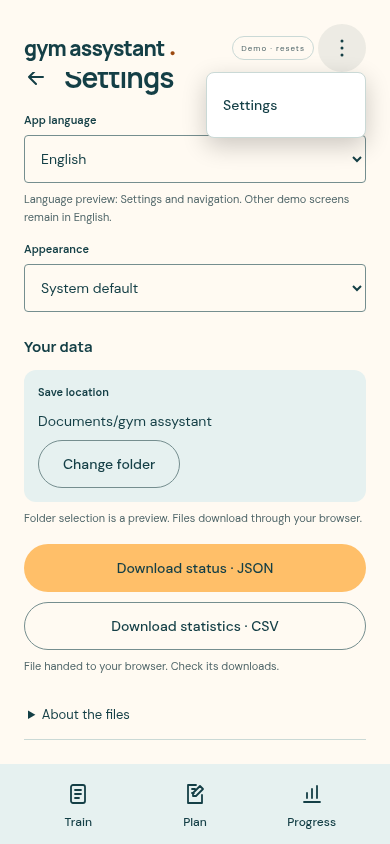
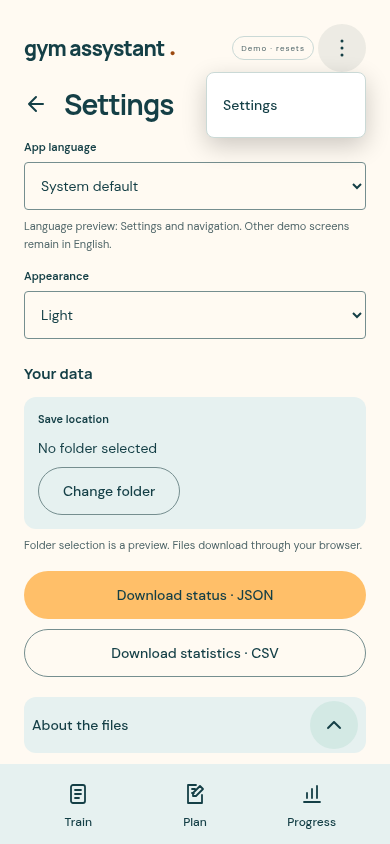
Enlarge expand and collapse controls throughout the mockup

Changed region(s): [[0.0615, 0.0616, 0.9538, 0.8934], [0.9231, 0.3697, 0.9538, 0.4005], [0.8923, 0.3389, 0.9231, 0.3697]]

diff --git a/prototypes/web/index.html b/prototypes/web/index.html
@@ -24,15 +24,15 @@
 
 <label class="select-label seat-label" for="seatInput" data-req="GYM-003">Seat & position</label><input id="seatInput" data-req="GYM-003" class="seat-input" type="text" placeholder="e.g. Seat 4, backrest 2" maxlength="250">
 <button id="watchVideo" class="md-button md-text video-link" data-req="GYM-002"><svg class="button-icon" viewBox="0 0 24 24" aria-hidden="true" focusable="false"><path d="m8 5 11 7-11 7Z"/></svg><span>Exercise video</span></button></section>
-<section id="plan" data-view hidden data-req="GYM-018"><form id="planForm"><div class="page-heading"><h2>Plan</h2><button class="md-button md-filled save-plan" type="submit">Save</button></div><p id="planFeedback" class="field-help" role="status"></p><label class="select-label" for="planName">Plan name</label><input id="planName" class="plan-input" maxlength="80" required><div class="section-heading"><h3>Sessions</h3><button id="addPlanSession" class="md-button md-tonal small-button" type="button"><svg class="button-icon" viewBox="0 0 24 24" aria-hidden="true" focusable="false"><path d="M12 5v14M5 12h14"/></svg>Add</button></div><div id="planSessions"></div><details id="weeklyPlanDetails" class="settings-details"><summary>Weekly schedule</summary><div id="weeklySchedule"></div></details><details id="datePlanDetails" class="settings-details"><summary>Change a date</summary><label class="select-label" for="planDate">Date</label><input id="planDate" class="plan-input" type="date" required><label class="select-label" for="planDateSession">Session</label><select id="planDateSession"></select><p class="field-help">Today or later · applies to this date only.</p></details></form></section>
-<section id="planSession" data-view hidden data-req="GYM-018"><form id="templateForm"><div class="page-heading secondary-heading" data-req="GYM-025"><button id="backToPlan" class="md-icon-button" type="button" aria-label="Back to training plan"><svg class="button-icon" viewBox="0 0 24 24" aria-hidden="true" focusable="false"><path d="M19 12H5m7-7-7 7 7 7"/></svg></button><h2 id="templateHeading"></h2><button class="md-button md-filled save-plan" type="submit">Save</button></div><p id="templateFeedback" class="field-help" role="status"></p><label class="select-label" for="templateName">Session name</label><input id="templateName" class="plan-input" maxlength="60" required><details id="templateNotes" class="settings-details"><summary>Session focus (optional)</summary><label class="select-label" for="templateFocus">Focus</label><input id="templateFocus" class="plan-input" maxlength="100"></details><div class="section-heading"><h3>Exercises</h3></div><div id="plannedExercises"></div><div class="add-plan-exercise"><select id="exerciseToAdd" aria-label="Exercise to add"></select><button id="addPlanExercise" class="md-button md-tonal small-button" type="button" aria-label="Add exercise"><svg class="button-icon" viewBox="0 0 24 24" aria-hidden="true" focusable="false"><path d="M12 5v14M5 12h14"/></svg>Add</button></div></form></section>
-<section id="progress" data-view hidden data-req="GYM-010 GYM-020 GYM-021"><h2>Progress</h2><p class="field-help sample-notice">Sample performance · 14 Sep–5 Oct 2026</p><label class="select-label" for="progressExercise">Exercise</label><select id="progressExercise"></select><div class="metric-tabs" role="group" aria-label="Progress metric"><button data-metric="reps" class="md-segment" aria-pressed="true"><span class="segment-check"><svg class="button-icon" viewBox="0 0 24 24" aria-hidden="true" focusable="false"><path d="m5 12 4 4L19 6"/></svg></span>Reps</button><button data-metric="weight" class="md-segment" aria-pressed="false"><span class="segment-check"><svg class="button-icon" viewBox="0 0 24 24" aria-hidden="true" focusable="false"><path d="m5 12 4 4L19 6"/></svg></span>Weight</button><button data-metric="volume" class="md-segment" aria-pressed="false"><span class="segment-check"><svg class="button-icon" viewBox="0 0 24 24" aria-hidden="true" focusable="false"><path d="m5 12 4 4L19 6"/></svg></span>Volume</button></div><div class="chart-card"><p class="eyebrow" id="metricTitle"></p><div class="metric-head"><strong id="metricValue"></strong><span id="metricUnit"></span></div><p class="field-help" id="metricSubtitle"></p><div id="chart" class="chart" role="img"></div></div><details id="performanceDetails" class="metric-details"><summary>How to compare</summary><p class="field-help">Sample history; current edits excluded. Bars start at zero.</p><div class="stat-row"><span>Working sets in this period</span><strong id="workingSets"></strong></div><p id="comparisonContext" class="field-help"></p><p id="metricExplanation" class="quiet-note"></p></details><div class="attendance-card" data-req="GYM-020"><div class="attendance-title"><h3>Attendance</h3><span class="field-help">Sample visits + your logs</span></div><p class="field-help" id="attendanceWindow"></p><div class="attendance-head"><strong id="attendanceTotal"></strong><span>sessions logged<br><b id="attendancePercent"></b></span></div><div class="attendance-summary"><span><b id="attendanceLate"></b> late</span><span><b id="attendanceUnlogged"></b> not logged</span></div><details id="attendanceDetails" class="metric-details"><summary>Attendance details</summary><dl class="attendance-details"><div><dt>On planned day</dt><dd id="attendanceOnTime"></dd></div><div><dt>Logged earlier</dt><dd id="attendanceEarly"></dd></div><div><dt>Average delay (late sessions)</dt><dd id="attendanceDelay"></dd></div></dl><p class="field-help" id="attendanceAsOf"></p><p class="field-help">One valid completed working set records a visit, even for a partial workout. Not logged means attendance is unknown. Today and future plans are excluded from this period; no plans means N/A. Reload resets your logs.</p></details></div></section>
+<section id="plan" data-view hidden data-req="GYM-018"><form id="planForm"><div class="page-heading"><h2>Plan</h2><button class="md-button md-filled save-plan" type="submit">Save</button></div><p id="planFeedback" class="field-help" role="status"></p><label class="select-label" for="planName">Plan name</label><input id="planName" class="plan-input" maxlength="80" required><div class="section-heading"><h3>Sessions</h3><button id="addPlanSession" class="md-button md-tonal small-button" type="button"><svg class="button-icon" viewBox="0 0 24 24" aria-hidden="true" focusable="false"><path d="M12 5v14M5 12h14"/></svg>Add</button></div><div id="planSessions"></div><details id="weeklyPlanDetails" class="settings-details"><summary data-req="GYM-025"><span>Weekly schedule</span><span class="disclosure-icon" aria-hidden="true"><svg class="button-icon" viewBox="0 0 24 24" focusable="false"><path d="m6 9 6 6 6-6"/></svg></span></summary><div id="weeklySchedule"></div></details><details id="datePlanDetails" class="settings-details"><summary data-req="GYM-025"><span>Change a date</span><span class="disclosure-icon" aria-hidden="true"><svg class="button-icon" viewBox="0 0 24 24" focusable="false"><path d="m6 9 6 6 6-6"/></svg></span></summary><label class="select-label" for="planDate">Date</label><input id="planDate" class="plan-input" type="date" required><label class="select-label" for="planDateSession">Session</label><select id="planDateSession"></select><p class="field-help">Today or later · applies to this date only.</p></details></form></section>
+<section id="planSession" data-view hidden data-req="GYM-018"><form id="templateForm"><div class="page-heading secondary-heading" data-req="GYM-025"><button id="backToPlan" class="md-icon-button" type="button" aria-label="Back to training plan"><svg class="button-icon" viewBox="0 0 24 24" aria-hidden="true" focusable="false"><path d="M19 12H5m7-7-7 7 7 7"/></svg></button><h2 id="templateHeading"></h2><button class="md-button md-filled save-plan" type="submit">Save</button></div><p id="templateFeedback" class="field-help" role="status"></p><label class="select-label" for="templateName">Session name</label><input id="templateName" class="plan-input" maxlength="60" required><details id="templateNotes" class="settings-details"><summary data-req="GYM-025"><span>Session focus (optional)</span><span class="disclosure-icon" aria-hidden="true"><svg class="button-icon" viewBox="0 0 24 24" focusable="false"><path d="m6 9 6 6 6-6"/></svg></span></summary><label class="select-label" for="templateFocus">Focus</label><input id="templateFocus" class="plan-input" maxlength="100"></details><div class="section-heading"><h3>Exercises</h3></div><div id="plannedExercises"></div><div class="add-plan-exercise"><select id="exerciseToAdd" aria-label="Exercise to add"></select><button id="addPlanExercise" class="md-button md-tonal small-button" type="button" aria-label="Add exercise"><svg class="button-icon" viewBox="0 0 24 24" aria-hidden="true" focusable="false"><path d="M12 5v14M5 12h14"/></svg>Add</button></div></form></section>
+<section id="progress" data-view hidden data-req="GYM-010 GYM-020 GYM-021"><h2>Progress</h2><p class="field-help sample-notice">Sample performance · 14 Sep–5 Oct 2026</p><label class="select-label" for="progressExercise">Exercise</label><select id="progressExercise"></select><div class="metric-tabs" role="group" aria-label="Progress metric"><button data-metric="reps" class="md-segment" aria-pressed="true"><span class="segment-check"><svg class="button-icon" viewBox="0 0 24 24" aria-hidden="true" focusable="false"><path d="m5 12 4 4L19 6"/></svg></span>Reps</button><button data-metric="weight" class="md-segment" aria-pressed="false"><span class="segment-check"><svg class="button-icon" viewBox="0 0 24 24" aria-hidden="true" focusable="false"><path d="m5 12 4 4L19 6"/></svg></span>Weight</button><button data-metric="volume" class="md-segment" aria-pressed="false"><span class="segment-check"><svg class="button-icon" viewBox="0 0 24 24" aria-hidden="true" focusable="false"><path d="m5 12 4 4L19 6"/></svg></span>Volume</button></div><div class="chart-card"><p class="eyebrow" id="metricTitle"></p><div class="metric-head"><strong id="metricValue"></strong><span id="metricUnit"></span></div><p class="field-help" id="metricSubtitle"></p><div id="chart" class="chart" role="img"></div></div><details id="performanceDetails" class="metric-details"><summary data-req="GYM-025"><span>How to compare</span><span class="disclosure-icon" aria-hidden="true"><svg class="button-icon" viewBox="0 0 24 24" focusable="false"><path d="m6 9 6 6 6-6"/></svg></span></summary><p class="field-help">Sample history; current edits excluded. Bars start at zero.</p><div class="stat-row"><span>Working sets in this period</span><strong id="workingSets"></strong></div><p id="comparisonContext" class="field-help"></p><p id="metricExplanation" class="quiet-note"></p></details><div class="attendance-card" data-req="GYM-020"><div class="attendance-title"><h3>Attendance</h3><span class="field-help">Sample visits + your logs</span></div><p class="field-help" id="attendanceWindow"></p><div class="attendance-head"><strong id="attendanceTotal"></strong><span>sessions logged<br><b id="attendancePercent"></b></span></div><div class="attendance-summary"><span><b id="attendanceLate"></b> late</span><span><b id="attendanceUnlogged"></b> not logged</span></div><details id="attendanceDetails" class="metric-details"><summary data-req="GYM-025"><span>Attendance details</span><span class="disclosure-icon" aria-hidden="true"><svg class="button-icon" viewBox="0 0 24 24" focusable="false"><path d="m6 9 6 6 6-6"/></svg></span></summary><dl class="attendance-details"><div><dt>On planned day</dt><dd id="attendanceOnTime"></dd></div><div><dt>Logged earlier</dt><dd id="attendanceEarly"></dd></div><div><dt>Average delay (late sessions)</dt><dd id="attendanceDelay"></dd></div></dl><p class="field-help" id="attendanceAsOf"></p><p class="field-help">One valid completed working set records a visit, even for a partial workout. Not logged means attendance is unknown. Today and future plans are excluded from this period; no plans means N/A. Reload resets your logs.</p></details></div></section>
 <section id="settings" data-view hidden data-req="GYM-022 GYM-023 GYM-024"><div class="secondary-heading" data-req="GYM-025"><button id="settingsBack" class="md-icon-button" aria-label="Back" data-req="GYM-022"><svg class="button-icon" viewBox="0 0 24 24" aria-hidden="true" focusable="false"><path d="M19 12H5m7-7-7 7 7 7"/></svg></button><h2 data-settings-text="settings">Settings</h2></div>
 <label class="select-label" for="appLanguage" data-settings-text="language">App language</label><select id="appLanguage"><option value="system" data-settings-text="system">System default</option><option value="en" lang="en">English</option><option value="it" lang="it">Italiano</option></select><p class="field-help" data-settings-text="languageNote"></p>
 <label class="select-label" for="appTheme" data-settings-text="theme">Appearance</label><select id="appTheme"><option value="system" data-settings-text="system">System default</option><option value="light" data-settings-text="light">Light</option><option value="dark" data-settings-text="dark">Dark</option></select>
 <div class="section-heading"><h3 data-settings-text="data">Your data</h3></div><div class="save-location"><p class="select-label" data-settings-text="folder">Save location</p><p id="saveFolder">No folder selected</p><button id="changeFolder" class="md-button md-outlined" data-settings-text="changeFolder">Change folder</button></div><p class="field-help" data-settings-text="folderNote"></p>
 <div class="export-actions"><button id="downloadStatus" class="md-button md-filled" data-settings-text="status">Download status · JSON</button><button id="downloadStatistics" class="md-button md-outlined" data-settings-text="statistics">Download statistics · CSV</button></div><p id="settingsFeedback" class="field-help" role="status"></p>
-<details id="exportDetails" class="settings-details"><summary data-settings-text="details">About the files</summary><p class="field-help" data-settings-text="filesNote"></p><button id="downloadGuide" class="md-button md-text" data-settings-text="guide">Download recovery guide · TXT</button></details></section>
+<details id="exportDetails" class="settings-details"><summary data-req="GYM-025"><span data-settings-text="details">About the files</span><span class="disclosure-icon" aria-hidden="true"><svg class="button-icon" viewBox="0 0 24 24" focusable="false"><path d="m6 9 6 6 6-6"/></svg></span></summary><p class="field-help" data-settings-text="filesNote"></p><button id="downloadGuide" class="md-button md-text" data-settings-text="guide">Download recovery guide · TXT</button></details></section>
 </div>
 <nav class="main-nav" aria-label="Main navigation" data-req="GYM-008 GYM-010 GYM-015 GYM-018">
 <button id="programNav" aria-current="page"><span class="nav-icon" aria-hidden="true"><svg viewBox="0 0 24 24"><rect x="5" y="3" width="14" height="18" rx="2"/><path d="M9 8h6M9 12h6M9 16h4"/></svg></span><span data-settings-text="train">Train</span></button>

diff --git a/prototypes/web/js/app.js b/prototypes/web/js/app.js
@@ -3,7 +3,7 @@
 const byId = id => document.getElementById(id);
 // GYM-015: uniform decorative SVGs; the surrounding button provides its action name.
 const buttonIcon = name => {
-  const paths = {"back": "M19 12H5m7-7-7 7 7 7", "left": "m15 18-6-6 6-6", "right": "m9 6 6 6-6 6", "up": "M12 19V5m-7 7 7-7 7 7", "down": "M12 5v14m-7-7 7 7 7-7", "check": "m5 12 4 4L19 6", "add": "M12 5v14M5 12h14", "trash": "M3 6h18M9 6V3h6v3M5 6l1 15h12l1-15M10 10v7m4-7v7", "play": "m8 5 11 7-11 7Z"};
+  const paths = {"back": "M19 12H5m7-7-7 7 7 7", "left": "m15 18-6-6 6-6", "right": "m9 6 6 6-6 6", "up": "M12 19V5m-7 7 7-7 7 7", "down": "M12 5v14m-7-7 7 7 7-7", "check": "m5 12 4 4L19 6", "add": "M12 5v14M5 12h14", "trash": "M3 6h18M9 6V3h6v3M5 6l1 15h12l1-15M10 10v7m4-7v7", "play": "m8 5 11 7-11 7Z", "expand": "m6 9 6 6 6-6"};
   return `<svg class="button-icon" viewBox="0 0 24 24" aria-hidden="true" focusable="false"><path d="${paths[name]}"/></svg>`;
 };
 let exerciseIndex = 0;
@@ -402,7 +402,7 @@ function renderTemplate() {
   byId('templateHeading').textContent = 'Edit session';
   byId('templateName').value = template.name;
   byId('templateFocus').value = template.focus;
-  byId('plannedExercises').innerHTML = template.exercises.length ? template.exercises.map((item, index) => `<details class="prescription-card" ${index === 0 ? 'open' : ''}><summary><strong class="prescription-summary">${prescriptionSummary(item, index)}</strong></summary><label class="select-label" for="planned-machine-${item.entryId}">Exercise</label><select id="planned-machine-${item.entryId}" data-entry="${item.entryId}" data-plan-field="exerciseId">${GymData.catalog.map(machine => `<option value="${machine.id}" ${machine.id === item.exerciseId ? 'selected' : ''}>${machine.name}</option>`).join('')}</select><div class="prescription-fields"><label>Working sets<input type="number" min="1" max="10" step="1" required value="${item.setCount}" data-entry="${item.entryId}" data-plan-field="setCount" aria-label="Exercise ${index + 1} planned working sets"></label><label>Min reps<input type="number" min="1" max="50" step="1" required value="${item.minReps}" data-entry="${item.entryId}" data-plan-field="minReps" aria-label="Exercise ${index + 1} minimum target reps"></label><label>Max reps<input type="number" min="1" max="50" step="1" required value="${item.maxReps}" data-entry="${item.entryId}" data-plan-field="maxReps" aria-label="Exercise ${index + 1} maximum target reps"></label></div><div class="prescription-actions"><button class="md-icon-button md-icon-outlined" type="button" data-move-entry="${item.entryId}" data-direction="-1" aria-label="Move exercise ${index + 1} up" ${index === 0 ? 'disabled' : ''}>${buttonIcon('up')}</button><button class="md-icon-button md-icon-outlined" type="button" data-move-entry="${item.entryId}" data-direction="1" aria-label="Move exercise ${index + 1} down" ${index === template.exercises.length - 1 ? 'disabled' : ''}>${buttonIcon('down')}</button><button class="md-icon-button" type="button" data-remove-entry="${item.entryId}" aria-label="Remove exercise ${index + 1}">${buttonIcon('trash')}</button></div></details>`).join('') : '<p class="field-help">Add an exercise to this session.</p>';
+  byId('plannedExercises').innerHTML = template.exercises.length ? template.exercises.map((item, index) => `<details class="prescription-card" ${index === 0 ? 'open' : ''}><summary><strong class="prescription-summary">${prescriptionSummary(item, index)}</strong><span class="disclosure-icon" aria-hidden="true">${buttonIcon('expand')}</span></summary><label class="select-label" for="planned-machine-${item.entryId}">Exercise</label><select id="planned-machine-${item.entryId}" data-entry="${item.entryId}" data-plan-field="exerciseId">${GymData.catalog.map(machine => `<option value="${machine.id}" ${machine.id === item.exerciseId ? 'selected' : ''}>${machine.name}</option>`).join('')}</select><div class="prescription-fields"><label>Working sets<input type="number" min="1" max="10" step="1" required value="${item.setCount}" data-entry="${item.entryId}" data-plan-field="setCount" aria-label="Exercise ${index + 1} planned working sets"></label><label>Min reps<input type="number" min="1" max="50" step="1" required value="${item.minReps}" data-entry="${item.entryId}" data-plan-field="minReps" aria-label="Exercise ${index + 1} minimum target reps"></label><label>Max reps<input type="number" min="1" max="50" step="1" required value="${item.maxReps}" data-entry="${item.entryId}" data-plan-field="maxReps" aria-label="Exercise ${index + 1} maximum target reps"></label></div><div class="prescription-actions"><button class="md-icon-button md-icon-outlined" type="button" data-move-entry="${item.entryId}" data-direction="-1" aria-label="Move exercise ${index + 1} up" ${index === 0 ? 'disabled' : ''}>${buttonIcon('up')}</button><button class="md-icon-button md-icon-outlined" type="button" data-move-entry="${item.entryId}" data-direction="1" aria-label="Move exercise ${index + 1} down" ${index === template.exercises.length - 1 ? 'disabled' : ''}>${buttonIcon('down')}</button><button class="md-icon-button" type="button" data-remove-entry="${item.entryId}" aria-label="Remove exercise ${index + 1}">${buttonIcon('trash')}</button></div></details>`).join('') : '<p class="field-help">Add an exercise to this session.</p>';
   byId('exerciseToAdd').innerHTML = GymData.catalog.map(item => `<option value="${item.id}">${item.name}</option>`).join('');
   byId('templateFeedback').textContent = planMessage;
 }

diff --git a/prototypes/web/css/style.css b/prototypes/web/css/style.css
@@ -386,3 +386,20 @@ input[type="number"] { appearance: textfield; -moz-appearance: textfield; }
 input[type="number"]::-webkit-inner-spin-button, input[type="number"]::-webkit-outer-spin-button { -webkit-appearance: none; margin: 0; }
 .video-placeholder { border-radius: var(--shape-medium); }
 .video-placeholder svg { display: block; margin: auto; width: 48px; height: 48px; fill: none; stroke: currentColor; stroke-width: 2; stroke-linecap: round; stroke-linejoin: round; }
+
+/* GYM-021, GYM-025: obvious expand/collapse affordances; the entire row toggles. */
+summary, .prescription-card summary {
+  display: flex; align-items: center; justify-content: space-between; gap: 12px;
+  min-height: 56px; padding: 4px 8px; list-style: none;
+  border-radius: var(--shape-medium); font-size: 14px; font-weight: 500;
+  background: var(--surface-container);
+}
+summary::-webkit-details-marker { display: none; }
+summary::marker { content: ''; }
+summary > :first-child { min-width: 0; overflow-wrap: anywhere; }
+.disclosure-icon { display: grid; place-items: center; width: 48px; height: 48px; flex-shrink: 0; border-radius: var(--shape-full); background: var(--tonal-container); color: var(--on-surface); }
+details[open] > summary .disclosure-icon svg { transform: rotate(180deg); }
+.prescription-summary { font-weight: 500; }
+.settings-details, .metric-details { padding-block: 4px; }
+.prescription-card summary { padding-inline: 0; }
+@media (prefers-reduced-motion: no-preference) { .disclosure-icon svg { transition: transform 160ms ease; } }

diff --git a/docs/product/spec.md b/docs/product/spec.md
@@ -1,6 +1,6 @@
 # gym assystant — draft specification
 
-Status: revision 12, for exploration. Only a disposable browser mockup is authorized. Android implementation starts after the user decides the scope. Mockup coverage does not mean a production requirement is implemented.
+Status: revision 13, for exploration. Only a disposable browser mockup is authorized. Android implementation starts after the user decides the scope. Mockup coverage does not mean a production requirement is implemented.
 
 ## Purpose
 
@@ -34,7 +34,7 @@ Follow a training program made of multiple training sessions. During each sessio
 | GYM-022 | Settings for app language and theme. | A persistent top-right vertical three-dot icon opens an anchored overflow menu containing Settings. Selecting it opens the separate Settings screen; bottom navigation contains only Train, Plan, and Progress and has no selected destination while Settings is open. A Back icon returns to the prior screen and its scroll position without changing drafts, logs, exercise selection, or timers. The overflow icon and menu item have accessible names and 48px targets. Click outside or Escape dismisses the menu; Escape restores focus to the trigger. Support keyboard opening, arrow-key item focus, Enter activation, and Tab dismissal without a focus trap. The popup stays within the phone at narrow widths and in both themes. Language offers System default, English, and Italiano, with English fallback for unsupported system languages; native delivery localizes all app-owned text/date/number presentation and keeps user-authored names/notes unchanged. The mockup previews translated Settings and navigation only and explicitly discloses remaining English demo screens. Theme offers System default, Light, and Dark; applies immediately across all views without changing entries or interrupting timers; System responds to system color-mode changes. Keep the amber/teal brand, readable contrast, 48px controls, and concise grouped settings. Choices reset on reload in the mockup. |
 | GYM-023 | Choose a durable app-status save folder. | Settings shows the current save location and a Change folder action. Native Android uses the system directory picker and retained document-tree permission rather than an arbitrary typed filesystem path; users may select any writable folder exposed by the picker, subject to Android restrictions. Cancellation retains the previous choice; inaccessible/revoked storage reports unsaved status and offers retry/change location without discarding in-app data. Native delivery saves versioned UTF-8 JSON snapshots after committed plan, settings, log, setup, order, and lifecycle changes and on timer pause/background, not every clock tick. Keep a previous valid snapshot and only report saved after a complete write; details of atomic replacement depend on the document provider. User-visible snapshots are independent of app-private storage and readable without the app. The browser previews example folder choices, labels them as previews, writes no folder, and offers an actual Download status JSON snapshot using browser downloads. Saving/reloading/restoring and Android folder access remain unimplemented in this mockup. |
 | GYM-024 | Download statistics and recover data without the app. | Settings provides Download statistics CSV plus full status JSON and a plain-text recovery guide. CSV contains all three sample performance series, sample/live attendance records and the same 28-day summary shown in Progress, independent of the currently selected exercise/metric; current editable sets remain excluded from sample performance. Use documented UTF-8, RFC 8259 JSON and RFC 4180-style CSV with headers, comma delimiter, escaped quotes, CRLF records, stable English field names, decimal points, explicit units, ISO civil dates and UTC timestamps. Missing observations remain null/blank with a reason, never strength zeros. Separate sample records from this visit's demo edits. Full JSON contains saved plan, distinct unsaved draft, catalog/context, dated execution snapshots and order, working/warm-up sets and seat notes, lifecycle/attendance, past obligation snapshots, sample histories, settings, and paused elapsed timer snapshots with captured-running metadata; export must not mutate live timers. Include format/version and a data dictionary; the guide explains reading JSON with a text editor/Python and CSV with a spreadsheet without app dependencies. Document future format migrations; no proprietary binary-only backup, encryption/password requirement, cloud account, import UI, notifications, or new metrics are introduced. Native persistence and restoration remain future delivery. |
-| GYM-025 | Keep design elements consistent across every screen and state. | Walk through Train, Ready/In progress/Paused/Finished sessions, execution/recovery and warm-up logging, finished review, video, Plan/schedule/template editing, Progress and its details, Settings/files/folder, and overflow in both themes and at narrow widths. Use the same 48px circular Back icon and compact heading alignment for secondary pages, with clear accessible destination labels. Keep filled/tonal/outlined/text action hierarchy and move/delete distinctions. Plan Save is disabled until a draft change and returns to disabled after saving. Finished set completion is a static check/dash with complete/not-logged accessible text, not an inactive button that looks tappable; read-only values stay readable and lose editable-field outlines. Numeric inputs retain number validation, touch size and keyboard editing but hide browser-specific spinner decorations. The unavailable video uses a neutral decorative video frame rather than a play affordance. Empty optional session focus does not produce a leading separator. Retain exercise emphasis, warm-up/working distinctions, all existing data/lifecycle behavior, and document before/after findings. No new product capability or Android implementation is introduced. |
+| GYM-025 | Keep design elements consistent across every screen and state. | Walk through Train, Ready/In progress/Paused/Finished sessions, execution/recovery and warm-up logging, finished review, video, Plan/schedule/template editing, Progress and its details, Settings/files/folder, and overflow in both themes and at narrow widths. Use the same 48px circular Back icon and compact heading alignment for secondary pages, with clear accessible destination labels. Keep filled/tonal/outlined/text action hierarchy and move/delete distinctions. Plan Save is disabled until a draft change and returns to disabled after saving. Finished set completion is a static check/dash with complete/not-logged accessible text, not an inactive button that looks tappable; read-only values stay readable and lose editable-field outlines. Numeric inputs retain number validation, touch size and keyboard editing but hide browser-specific spinner decorations. The unavailable video uses a neutral decorative video frame rather than a play affordance. Empty optional session focus does not produce a leading separator. Every expand/collapse control uses a full-width row at least 56px high, a readable 14px label, and a visible 24px chevron in a 48px circular indicator on the right; the whole row toggles the section. The chevron turns upward when expanded. Use the same treatment for plan schedules, optional focus, exercise prescriptions, metric/attendance details, and file details. Retain native keyboard and expanded-state semantics, label wrapping at narrow widths, and both themes; the visual indicator must survive language changes. Retain exercise emphasis, warm-up/working distinctions, all existing data/lifecycle behavior, and document before/after findings. No new product capability or Android implementation is introduced. |
 
 ## Information model and navigation
 

diff --git a/docs/product/traceability.md b/docs/product/traceability.md
@@ -1,6 +1,6 @@
 # Bidirectional traceability
 
-Revision 12. All Android delivery is **not started**. “Covered” below means the disposable mockup meets the acceptance criteria in [spec.md](spec.md), not that the Android product is implemented. Search a requirement ID in source comments or `data-req` attributes to trace code back to scope.
+Revision 13. All Android delivery is **not started**. “Covered” below means the disposable mockup meets the acceptance criteria in [spec.md](spec.md), not that the Android product is implemented. Search a requirement ID in source comments or `data-req` attributes to trace code back to scope.
 
 | Requirement | Source anchors / artifact | Verification | Mockup state |
 | --- | --- | --- | --- |
@@ -28,7 +28,7 @@ Revision 12. All Android delivery is **not started**. “Covered” below means 
 | GYM-022 | `settings.js`: overflow menu, dismissal/keyboard focus, exact-screen return, translation preview and system/theme handlers; `app.js`: `showView` and Settings mount; `index.html`: top-right overflow, three bottom destinations, Settings Back; CSS: anchored popup, dark role colors and targets | Browser: overflow opening/keyboard/outside/Escape/Tab dismissal, focus and prior-screen/scroll restoration, three bottom destinations, English/Italian/system fallback, light/dark/system changes, retained drafts/logs/timers, 320/390/430px targets/menu bounds, reload reset | Settings/theme covered; full app localization deferred to Android |
 | GYM-023 | `settings.js`: folder preview dialog/cancel, JSON download; `exports.js`: snapshot/JSON; `index.html`: save location; [data-formats.md](../architecture/data-formats.md) | Browser: cancel/Escape retains location and restores focus, chosen preview location appears in file, actual browser download; logic: complete non-mutating snapshot | Folder UI preview and JSON download covered; native picker/permissions, automatic saves and restore not started |
 | GYM-024 | `exports.js`: snapshot, JSON, statistics CSV, guide/dictionary; `plan.js`: original `prescribedExercises`; `metrics.js`: shared comparable-record filter; `app.js`: live export input/draft separation; `index.html`: downloads/disclosure; [data-formats.md](../architecture/data-formats.md) | Logic: JSON round-trip, Unicode, working/warm-up and original prescriptions, paused timer capture, exact metrics/attendance, escaping/missing values; browser: downloads parse, live state unchanged, drafts separate; standard Python JSON/CSV recovery check | Text downloads and contract covered; production archive/restore and future migrations not started |
-| GYM-025 | [interface-review.md](../reviews/interface-review.md): design consistency walkthrough; `index.html`: shared secondary headings/Back and neutral video frame; `app.js`: `syncSaveActions`, static finished `setRow`, clean focus/date joining; CSS: number-field decoration/read-only styles | Before/after browser walkthrough of 50 theme/screen states each; browser: disabled/dirty/saved Save, Back names, numeric keyboard entry, clean empty focus, static complete/not-logged review, existing flow regression, narrow targets | Design corrections covered in mockup; Android deferred |
+| GYM-025 | [interface-review.md](../reviews/interface-review.md): design consistency walkthrough; `index.html`: shared secondary headings/Back and neutral video frame; `app.js`: `syncSaveActions`, static finished `setRow`, clean focus/date joining; CSS: number-field decoration/read-only styles and shared 56px disclosure rows/24px chevrons; `index.html`/`app.js`: disclosure indicators | Before/after browser walkthrough of 50 theme/screen states each; browser: disabled/dirty/saved Save, Back names, numeric keyboard entry, clean empty focus, static complete/not-logged review, existing flow regression, narrow targets | Design corrections covered in mockup; Android deferred |
 
 JavaScript filenames above are under `prototypes/web/js/`; `index.html` is under `prototypes/web/`, and `style.css` is under `prototypes/web/css/`. Meaningful automated checks live in [logic.test.cjs](../../prototypes/web/tests/logic.test.cjs) and [browser.cjs](../../prototypes/web/tests/browser.cjs). `prototypes/web/package.json` and its lockfile support those checks only; the mockup itself has no build or runtime package dependency.
 
@@ -91,3 +91,5 @@ Revision 10, 2026-10-13: wrote GYM-022–024 and the version-1 text-file contrac
 Revision 11, 2026-10-13: moved Settings to the persistent top-right three-dot overflow menu, restored Train/Plan/Progress-only bottom navigation, and added Back to the originating screen/scroll. Chromium verified menu bounds, focus, keyboard opening, outside/Escape/Tab dismissal, return without changed drafts/logs/timers, themes, downloads, and 320/390/430px targets.
 
 Revision 12, 2026-10-13: walked through 50 light/dark screen and state captures before and after the GYM-025 corrections. Standardized Back/secondary headings, disabled Save until a draft change, replaced finished completion buttons with static statuses and read-only value styling, hid browser number spinners while preserving keyboard entry, replaced the unavailable-video play glyph, and removed leading separators for empty focus. All 29 logic checks and the Chromium regression suite passed, including new behavior/state assertions. Reviewed before/after screenshots and narrow layouts; refreshed all previews and retained representative design comparisons in [interface-review.md](../reviews/interface-review.md). No sub-48px standard controls were found; calendar width remains its documented exception. Android implementation remains not started.
+
+Revision 13, 2026-10-13: enlarged all disclosure affordances under GYM-025 after updating its specification: 56px minimum full-width rows, 14px labels, 24px right-side chevrons in 48px circular indicators, upward expanded state, and native keyboard toggling. Moved translated Settings labels into their own spans so translation retains the indicator. Chromium regression checks passed; the 50-capture light/dark walkthrough verified dimensions and chevron consistency on all screens and at narrow widths. Added representative disclosure previews to [interface-review.md](../reviews/interface-review.md). Android implementation remains not started.

diff --git a/docs/reviews/interface-review.md b/docs/reviews/interface-review.md
@@ -68,3 +68,9 @@ Different action styles remain intentional: filled primary actions, tonal Add, o
 Representative before/after evidence: [mixed Back row before](previews/design-before-back.png) → [compact Back heading after](previews/design-session.png), and [finished controls before](previews/design-before-finished-log.png) → [static finished review after](previews/design-finished-log.png). The remaining preview images were refreshed to show three bottom destinations and the overflow menu.
 
 Verification: all 29 logic checks and the Chromium regression suite passed, including overflow keyboard/outside/Escape/Tab dismissal, exact screen/scroll return, retained drafts/logs/timers, disabled/dirty/saved Save states, clean optional-focus subtitle, ArrowUp/ArrowDown entry, and static complete/not-logged finished statuses. The repeated 50-capture walkthrough found no standard control below 48px in either theme; narrow calendar cells retain their documented exception. Native Android implementation remains not started.
+
+## Revision 13: larger expand/collapse controls
+
+The user identified the native disclosure triangles as too small. Replaced them across Plan schedule/date/focus, exercise prescriptions, comparison/attendance details, and Settings file details with 24px chevrons in 48px circular indicators at the right of a full-width, minimum 56px row. Labels are 14px and wrap; the whole row toggles. The chevron points up when open. The circle is part of the native summary, not a nested button, preserving keyboard and expanded-state semantics. Language changes update only the label so the indicator remains present.
+
+The browser regression suite passed, including disclosure keyboard activation, collapsed-field validation, translated/narrow Settings, and existing workflows. The repeated light/dark walkthrough checked 50 screen/state captures, including 320/430px layouts and shared row/icon dimensions. [Plan disclosures](previews/plan.png), [narrow exercise prescriptions](previews/disclosures-template.png), and [dark Progress disclosures](previews/progress-dark.png) show the enlarged controls.

diff --git a/docs/design/android-ui.md b/docs/design/android-ui.md
@@ -39,3 +39,5 @@ GYM-021 keeps timer actions compact, uses short visible Pause/Finish labels with
 GYM-022 adds System default/Light/Dark appearance through shared color roles. The dark palette retains warm amber actions and teal surfaces; checked text pairs exceed 4.5:1 and input outlines/chart pairs exceed 3:1 in both palettes. Native behavior follows [Android dark-theme guidance](https://developer.android.com/develop/ui/views/theming/darktheme). Language offers System default/English/Italiano; the browser translates only Settings/navigation with explicit region language metadata and a preview notice. Native full localization follows [Android per-app languages](https://developer.android.com/guide/topics/resources/app-languages). GYM-023's folder picker dialog is a labeled prototype preview; native folder access uses the [Storage Access Framework](https://developer.android.com/training/data-storage/shared/documents-files).
 
 GYM-025 standardizes Back as a 48px circular icon in compact secondary headings, with destination labels. Save retains the filled shape but is disabled until a draft changes. Finished log status uses static check/dash symbols rather than completion buttons; recorded values remain legible without editable-field outlines. Browser number spinners are hidden without changing keyboard input or validation, and the unavailable video frame has no play symbol. Contextual differences between reorder, delete and primary actions are retained.
+
+Revision 13 enlarges every expand/collapse affordance: a full-width row with minimum 56px height, 14px label, and a 24px chevron in a 48px circular indicator at the right. The entire summary remains the native keyboard-accessible toggle; the circle is decorative rather than a second nested button. An upward chevron indicates expansion. Labels wrap, both themes share the treatment, and the indicator remains present after translation.
